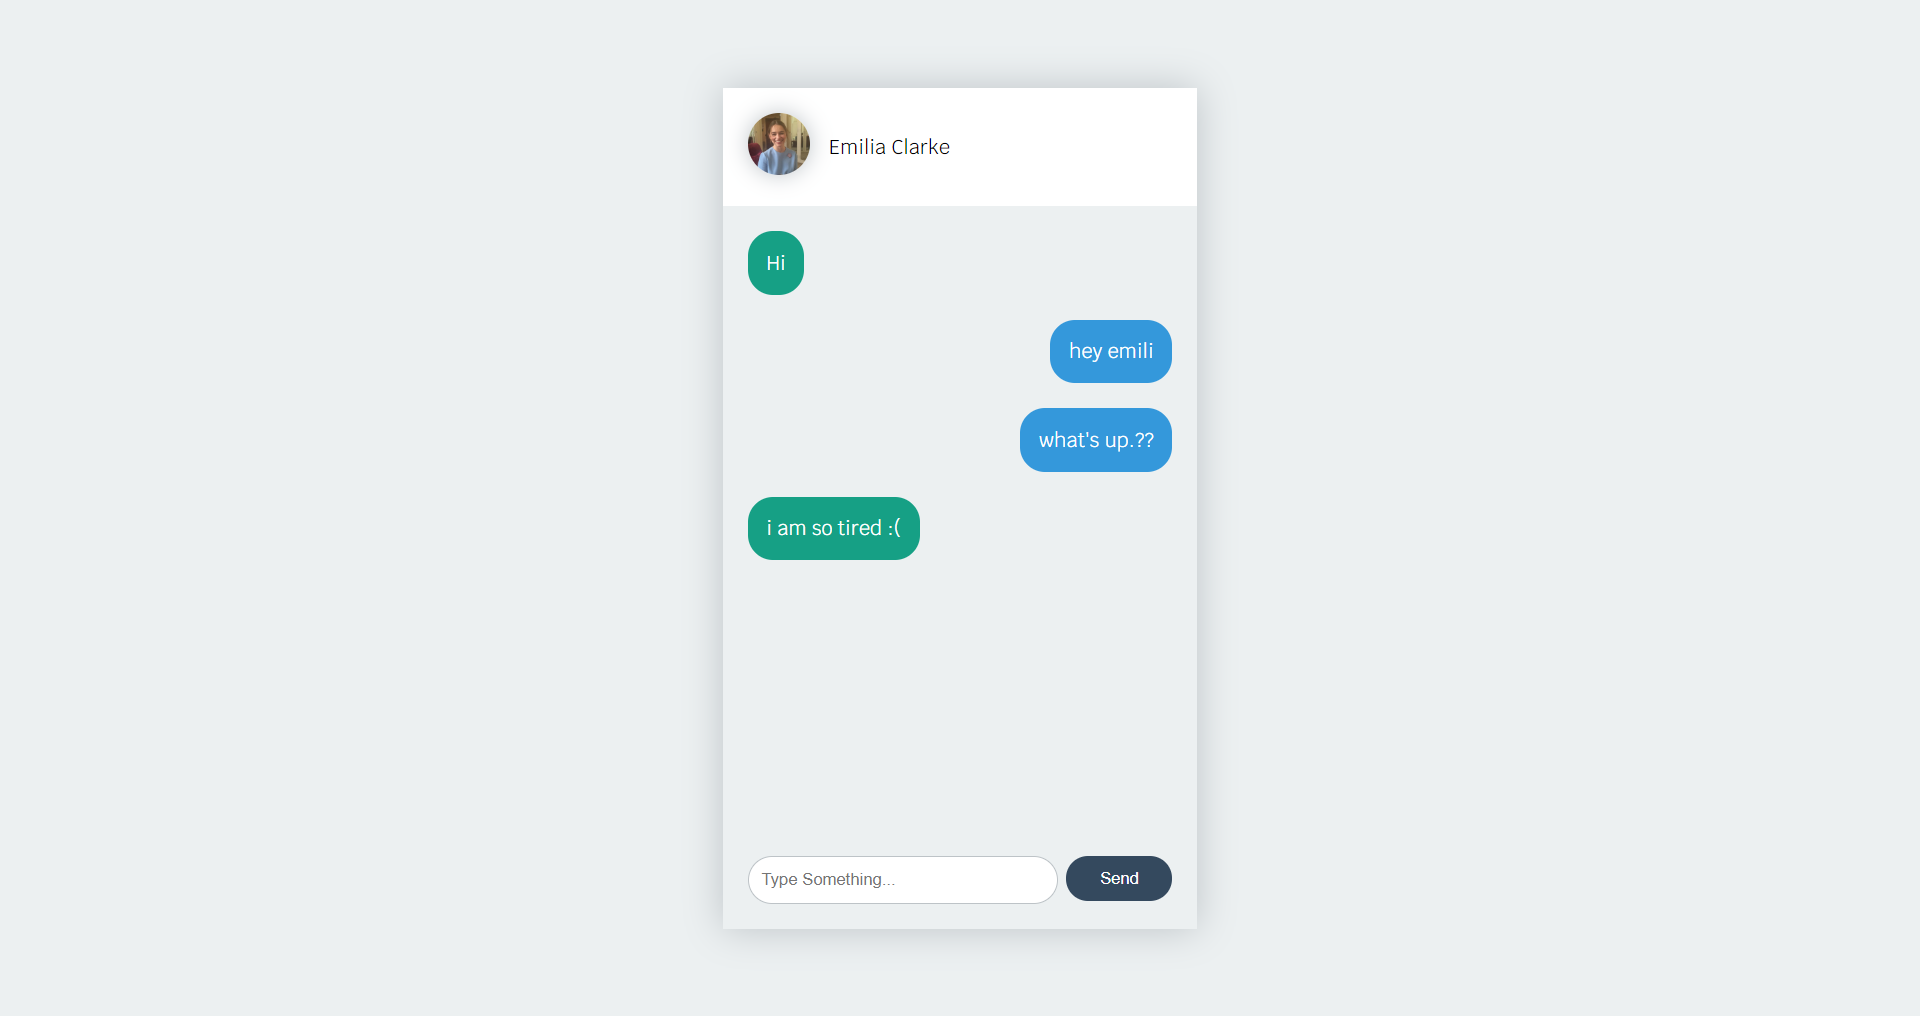
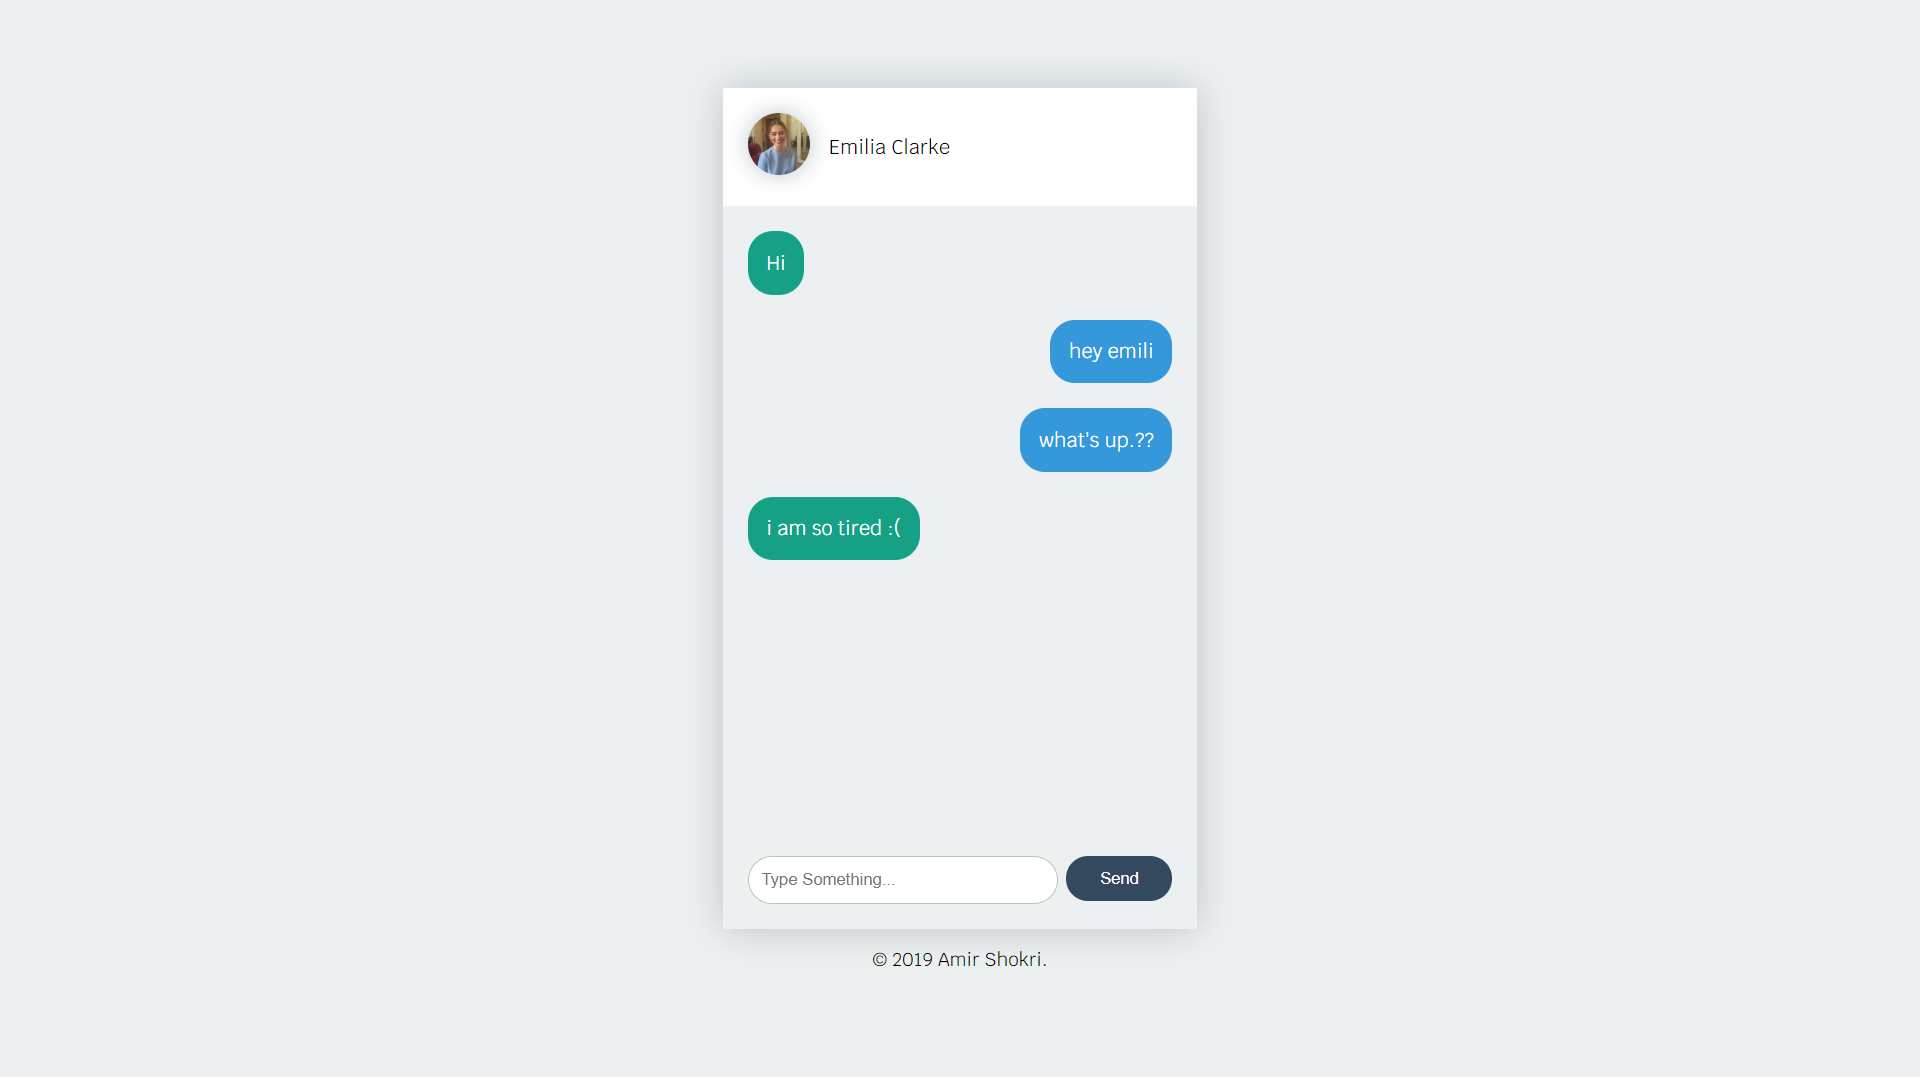
commit #31
add copyright in 013 direct message

diff --git a/013_direct_messaging.html b/013_direct_messaging.html
@@ -56,6 +56,10 @@
 				</div>
 			</div>
 
+			<div class="copyright text-center">
+				<p class="display-1-2">&copy; 2019 Amir Shokri.</p>
+			</div>
+
 		</div>
 
 	</div>
